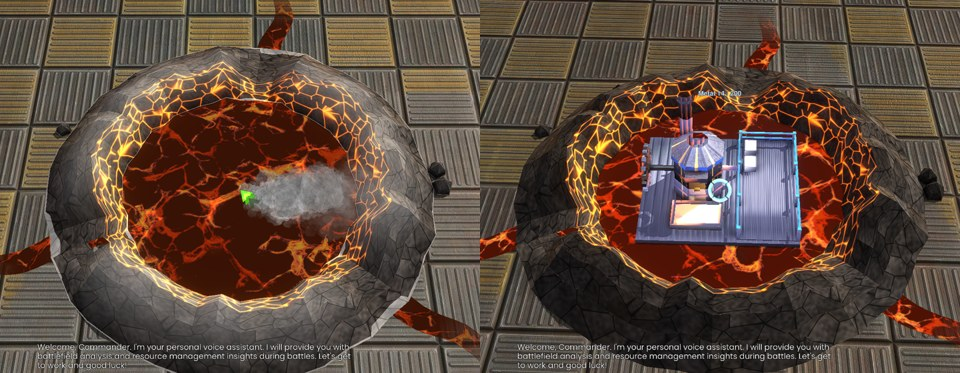
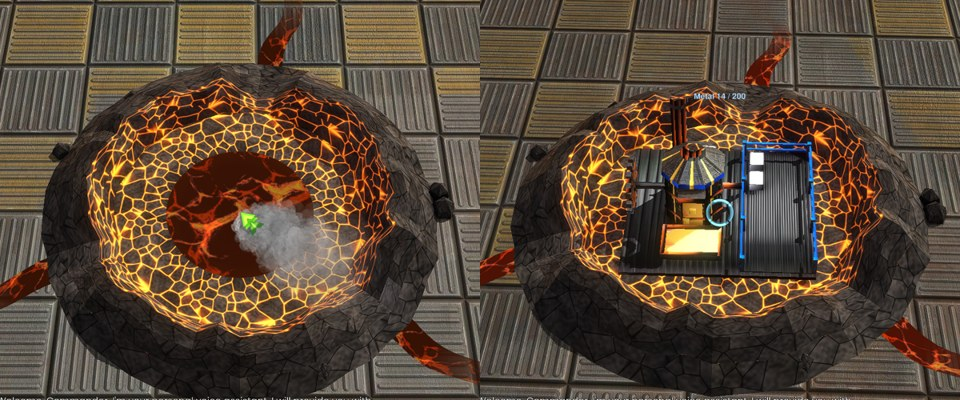
Volcano smaller, so that a Lava Extractor no longer seems to swim in the lava: the lake has radius 40 (the platform of the extractor, 88 x 80, covers it), a floor of hot rock lies between the lake and the wall, the wall stands just outside the corners of the platform (inner foot 62, crest 72 with he
Claude-Session: https://claude.ai/code/session_01QeCYKn7fqMf4y4C8NkAq1r

diff --git a/LevelEditor/models/make_lava_volcano.py b/LevelEditor/models/make_lava_volcano.py
@@ -1,9 +1,9 @@
 """Builds the model of the Volcano (lavavolcano.s3o) and its textures, a feature of the Level Editor: a crater of rock around a lake of lava.
 
-The Volcano of the Volcano and Lava Extractor proof of concept (specs/lava.md). The model is only the rock: a ring wall around the middle (the lake,
-where a Lava Extractor stands, 6 x 6 squares) with three breaches where lava flows out, and a few boulders on the outside. The lava itself (the lake
-and the three streams, moving) is drawn by the gadget lava_generator.lua with BAR's lava texture; it needs the same numbers (RIM_*, BREACHES,
-BREACH_H).
+The Volcano of the Volcano and Lava Extractor proof of concept (specs/lava.md). The model is only the rock: a floor of hot rock around the middle
+(the lake, small enough for the platform of a Lava Extractor to cover it), a ring wall close around that platform with three breaches where lava
+flows out, and a few boulders on the outside. The lava itself (the lake and the three streams, moving) is drawn by the gadget lava_generator.lua
+with BAR's lava texture; it needs the same numbers (LAKE, RIM_*, BREACHES, BREACH_H).
 The textures are made here too (no file of BAR is used): plates of dark rock with cracks (cells of a Voronoi pattern); in the upper half of the
 texture the cracks glow (inner wall of the crater, the red channel of the second texture makes them shine), in the lower half they are dark (outer
 slopes, boulders). Nothing reflects the sky (green channel 0).
@@ -24,10 +24,12 @@ from make_lava_truck import write_s3o
 
 HERE = os.path.dirname(os.path.abspath(__file__))
 
-RIM_IN = 70.0  # inner foot of the wall (height 0): the lake reaches under it; an extractor (corners 68) stands inside
-RIM_TOP = 84.0  # the crest
-RIM_OUT = 116.0  # outer foot (height 0)
-CREST = 24.0  # height of the crest (it varies by +-5)
+LAKE = 40.0  # radius of the lake of lava (drawn by the gadget): the platform of a Lava Extractor (88 x 80) covers it
+FLOOR_Y = 0.6  # height of the floor of the crater (from the edge of the lake to the wall)
+RIM_IN = 62.0  # inner foot of the wall (height 0): just outside the corners of the platform of a Lava Extractor (radius 59.5)
+RIM_TOP = 72.0  # the crest
+RIM_OUT = 98.0  # outer foot (height 0)
+CREST = 20.0  # height of the crest (it varies by +-4)
 BREACHES = (40.0, 160.0, 280.0)  # angles (degrees, from +x towards +z) of the breaches the streams flow out of
 BREACH_W = 16.0  # half width of a breach (degrees)
 BREACH_H = 2.5  # height of the crest in the middle of a breach
@@ -59,8 +61,8 @@ def area(k, j, rows, half):
 
 def wall_piece():
     rnd = random.Random(7)
-    crest = [CREST + rnd.uniform(-5, 5) for _ in range(SEG)]
-    shift = [rnd.uniform(-4, 4) for _ in range(SEG)]
+    crest = [CREST + rnd.uniform(-4, 4) for _ in range(SEG)]
+    shift = [rnd.uniform(-2, 4) for _ in range(SEG)]  # (never more than 2 inwards: the platform of an extractor)
     rings = []  # rings[j][k] = (x, y, z)
     for frac, hf in PROFILE:
         ring = []
@@ -90,6 +92,16 @@ def wall_piece():
     return v, i
 
 
+def floor(v, i):
+    """the floor of the crater: a ring of hot rock from under the edge of the lake to under the wall"""
+    r0, r1 = LAKE - 3, RIM_IN + 2
+    for k in range(SEG):
+        a0, a1 = 2 * math.pi * k / SEG, 2 * math.pi * (k + 1) / SEG
+        pts = [(r0 * math.cos(a0), FLOOR_Y, r0 * math.sin(a0)), (r0 * math.cos(a1), FLOOR_Y, r0 * math.sin(a1)),
+               (r1 * math.cos(a1), FLOOR_Y, r1 * math.sin(a1)), (r1 * math.cos(a0), FLOOR_Y, r1 * math.sin(a0))]
+        face(v, i, pts, area(k, 0, 1, HOT), (0, 1, 0))
+
+
 def boulders(v, i):
     """a few rocks on the outer slope, away from the breaches"""
     rnd = random.Random(11)
@@ -99,7 +111,7 @@ def boulders(v, i):
         if breach_factor(deg) < 1:
             continue
         a = math.radians(deg)
-        r = rnd.uniform(RIM_TOP + 10, RIM_OUT + 6)
+        r = rnd.uniform(RIM_TOP + 8, RIM_OUT + 4)
         cx, cz, s = r * math.cos(a), r * math.sin(a), rnd.uniform(3.5, 7)
         top = (cx + rnd.uniform(-1, 1), s * 1.3, cz + rnd.uniform(-1, 1))
         n = 5
@@ -163,8 +175,9 @@ def textures():
 
 def main():
     v, i = wall_piece()
+    floor(v, i)
     boulders(v, i)
-    m = {'radius': 110.0, 'height': 29.0, 'mid': (0.0, 9.0, 0.0), 'tex1': b'lavavolcano_color.png', 'tex2': b'lavavolcano_other.png',
+    m = {'radius': 95.0, 'height': 24.0, 'mid': (0.0, 8.0, 0.0), 'tex1': b'lavavolcano_color.png', 'tex2': b'lavavolcano_other.png',
          'root': piece(b'base', (0.0, 0.0, 0.0), v, i)}
     out = os.path.join(HERE, 'lavavolcano.s3o')
     with open(out, 'wb') as f:

diff --git a/specs/lava.md b/specs/lava.md
@@ -30,23 +30,23 @@
 
 - BAR's `gamedata/featuredefs.lua` loads every `features/*.lua` of all game archives, also of the extra game.
 - `geothermal = true`: the engine lets only buildings with a `g` in their yardmap stand on it and puts the geothermal smoke on it.
-- `indestructible`, not reclaimable, not blocking (units walk through the rock); footprint 6 x 6 (the Lava Extractor); collision cylinder 232 x 26; no ground decal.
+- `indestructible`, not reclaimable, not blocking (units walk through the rock); footprint 6 x 6 (the Lava Extractor); collision cylinder 196 x 22; no ground decal.
 - Model `Units/lavavolcano.s3o` (2.1); the lava in it is drawn by the gadget (4.3).
 - `customparams.lavavolcano = 1`: the mark the gadget and the editor look for.
 - Editor: its own kind **Volcano** in the Features tab (`M.FEATURE_KINDS`, `featureKind` in `editor_common.lua`: a feature with `customParams.lavavolcano`); saved in the level file like every feature.
 
 ### 2.1 The model of the Volcano (`LevelEditor/models/make_lava_volcano.py`)
 
-- Made from scratch, no file of BAR: a ring wall of rock around the middle, 48 parts around, rings across: inner foot (radius 70, height 0), crest (radius 84, height 24 +- 5), outer foot (radius 116); every part a little shifted (fixed random numbers: the same model every time).
+- Made from scratch, no file of BAR: a floor of hot rock (height 0.6, from radius 37 under the edge of the lake to under the wall) and a ring wall of rock around it, 48 parts around, rings across: inner foot (radius 62, height 0), crest (radius 72, height 20 +- 4), outer foot (radius 98); every part a little shifted (2 inwards to 4 outwards; fixed random numbers: the same model every time).
   - Three breaches (40, 160 and 280 degrees from +x towards +z, 16 degrees to each side): the crest goes down to 2.5 in their middle; the streams of lava run through them.
   - Nine boulders on the outer slope (five-sided, 3.5 to 7 wide), not in the breaches.
-  - A Lava Extractor (footprint 6 x 6, corners at radius 68) stands inside, on the lake.
+  - The lake (radius 40) is small enough for the platform of a Lava Extractor (88 x 80, corners at radius 59.5) to cover it; the wall stands just outside those corners (it does not look as if the extractor swam in the lava).
 - Textures of its own (512 x 512, made by the script with numpy and Pillow): plates of dark rock with cracks between them (a Voronoi pattern that tiles).
   - Upper half: the cracks glow orange (also the red channel of `lavavolcano_other.png`: they shine); the inner wall of the crater uses it.
   - Lower half: the cracks are darker than the rock; the outer slopes and the boulders use it.
   - Green channel of the second texture 0: the rock does not reflect the sky; color alpha 0 (no team color).
   - The engine reads a PNG texture of a model upside down compared with BAR's DDS textures: the script saves the images flipped, the texture areas count v from the top like those of the units.
-- Header: radius 110, height 29, middle (0, 9, 0).
+- Header: radius 95, height 24, middle (0, 8, 0).
 
 ## 3. The units (`gamedata/unitdefs_pre.lua`)
 
@@ -169,7 +169,7 @@
 ### 4.3 Drawing (unsynced)
 
 - `DrawWorldPreUnit`: the lava of every Volcano in view (`LAVA`; its numbers must match the model, 2.1):
-  - a lake (radius 76, 1.2 above the Volcano: its edge is under the inner wall) and a stream out of each breach (from radius 58 to 180, 20 to 10 wide, winding outside the crater, on the rock of the breach or on the ground, fading out at the end; made once per Volcano: `streams`);
+  - a lake (radius 40, 1.2 above the Volcano, on the floor of the crater; under the platform of an extractor) and a stream out of each breach (from radius 34 over the floor and through the breach to 160, 18 to 10 wide, winding outside the crater, on the rock of the breach or on the ground, fading out at the end; made once per Volcano: `streams`);
   - three layers: a dark red ground (the dark parts of BAR's lava texture `luaui/images/lava/lava7_diffuseemit.dds` are see-through), the lava texture, the same texture again moving the other way and adding light (`GL.ONE`);
   - the lake drifts slowly, the streams flow outwards (texture coordinates moved with the time), all of it pulses (0.82 to 1);
   - real time (`Spring.GetTimer`): the lava moves also while the game is paused (the editor).

diff --git a/docs/screenshots.md b/docs/screenshots.md
@@ -26,7 +26,7 @@ Notes on what each picture shows, so they can be retaken after a change of the l
 | `level-editor-scenario.jpg` | Scenario page (button I) of a level with a battle: title "Hold the Plateau", roles, tech, AI, win condition, start resources (the picture is from before 2026-10-28; the page has no roles, tech, AI and resources any more, they moved to the page T), grace period 2:30, ID; the map shows the plateau and the Cortex base. |
 | `evolution-game.jpg`, `evolution-help.jpg`, `evolution-armageddon.jpg` | Evolution (LAN Play), taken 2026-11-09 with `test-data\tools\pve_test.ps1 -Evo -EvoTest -Bots 6 -Shot game|help|armageddon -Widget zz_docshot.lua -Map "Comet Catcher Remake 1.8"` (window 1600 x 900, the engine's screenshot, not cut; seven players, the computer players on random values by the test message `evo|test|5` = the star button of the debug mode; `game`: the overview at the right and the own panel with the power-ups; `help`: the help window of the start of the game, stage 4; `armageddon`: the banner and the window of the gifts after `evo|test|4`). |
 | `renegade-survival.jpg`, `renegade-race-pick.jpg`, `renegade-race-results.jpg` | Renegade, taken 2026-11-17 with `test-data\tools\pve_test.ps1 -Ren -RenTest [-RenMode survival|race] -Widget zz_rendoc.lua` (window 1600 x 900, the engine's screenshot, not cut; the debug buttons and the tips hidden, the third person view; Survival on Full Metal Plate: wave 1, the view turned to the nearest enemy and firing; Race on Comet Catcher Remake 1.8: the cards with the Rascal picked, then the results after 16 checkpoints by `ren|test|11`). |
-| `lava-volcano.jpg` | The Volcano: alone (left) and with a Lava Extractor on it (right), taken 2026-11-22 with `test-data\tools\arena_test.ps1 -Widget zz_volcano.lua` (window 2400 x 1300, the game's camera moved close, two parts put side by side, 960 x 373). |
+| `lava-volcano.jpg` | The Volcano: alone (left) and with a Lava Extractor on it (right), taken 2026-11-22 with `test-data\tools\arena_test.ps1 -Widget zz_volcano.lua` (window 2400 x 1300, the game's camera moved close, two parts put side by side, 960 x 400). |
 | `lava-generator.jpg` | The Lava Extractor on a Volcano: at the start, seen lower from the front (left), after a minute with 10 metal blocks in its yard (right), taken 2026-11-22 with `test-data\tools\arena_test.ps1 -Widget zz_lavagen.lua` (window 2400 x 1300, the game's camera moved close, two parts put side by side, 960 x 382). |
 | `lava-forklift.jpg` | The Forklift of the Lava Extractor: empty next to the Rover armfav it is made from (left), with three boxes on its way to the factory (right), taken 2026-11-22 with `test-data\tools\arena_test.ps1 -Widget zz_lavafork.lua` (window 2400 x 1300, the game's camera moved close, two parts cut and put side by side, 960 x 384). |
 | `lava-cargo-truck.jpg` | The Cargo Truck of the Lava Extractor (back) next to the missile truck armsam it is made from (front), taken 2026-11-21 with `test-data\tools\arena_test.ps1 -Widget zz_lavatruck.lua` (window 2400 x 1300, the game's camera moved close, cut to 960 x 650). |

diff --git a/LevelEditor/README.md b/LevelEditor/README.md
@@ -107,7 +107,8 @@ Tabs: **Recent**, **Units**, **Features**, **Blueprints**.
 
 ### Volcano, Lava Extractor and Carriers (proof of concept)
 
-- **Volcano:** Features tab, kind **Volcano**. A crater of dark rock with a lake of lava in it; lava flows out through three breaches; smoke rises while nothing stands on it.
+- **Volcano:** Features tab, kind **Volcano**. A crater of dark rock with a small lake of lava in the middle; lava flows out through three breaches; smoke rises while nothing stands on it.
+  - A Lava Extractor fits into the crater: its platform covers the lake.
 
 ![The Volcano alone (left) and with a Lava Extractor on it (right)](../docs/lava-volcano.jpg)
 
